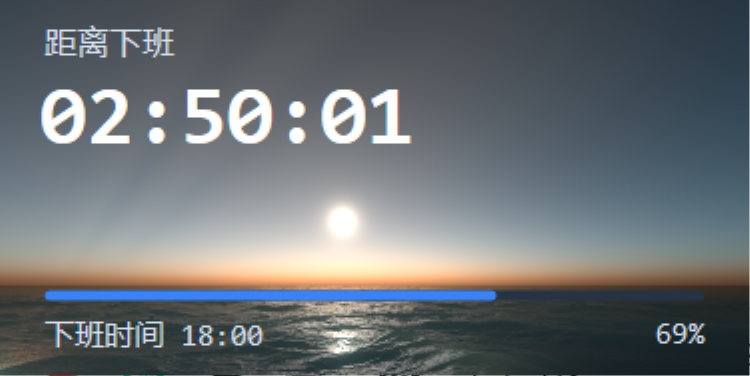
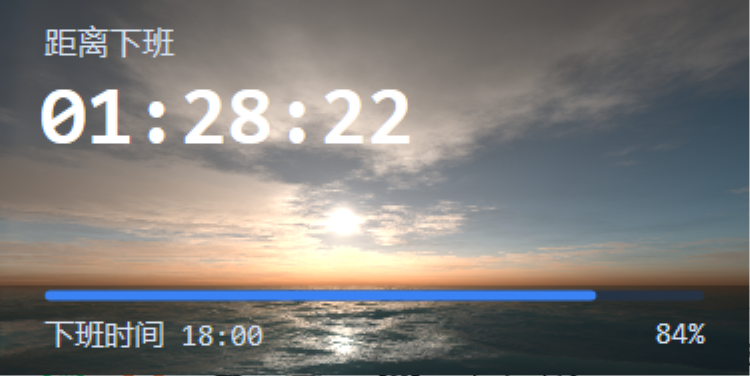
native: keep the shader's globals alive
FXC puts a file-scope 'float x = ...' into the implicit \ constant
buffer, and the app only binds b0, so those globals read as zero. cloudnear and
cloudfar were the fatal pair: clamp(1 - (dist - cloudfar) / (cloudfar -
cloudnear), 0, 10) evaluates to 0 when both are zero, which multiplies the whole
cloud density away. The same zeroing hit bR, m2 and the snow speeds.

The converter now prefixes the affected globals with static, so the initialiser
stays in the shader. The deck the source always drew is back in the picture.

Diagnosed by lzz15.

diff --git a/native/tools/convert-shader/src/main.rs b/native/tools/convert-shader/src/main.rs
@@ -225,6 +225,13 @@ fn rewrite(source: &str) -> String {
     // GLSL's two-argument `atan(y, x)` is HLSL's `atan2`.
     text = text.replace("atan(main.x,main.y)", "atan2(main.x, main.y)");
 
+    // A global `float x = ...` is not a GLSL global. FXC puts it in the
+    // implicit `$Globals` buffer, the app never binds that buffer, and the
+    // value reads back as 0. `cloudfar` being 0 makes the cloud distance
+    // factor clamp to 0, which erases the layer. `static` keeps the
+    // initializer and stays inside the invocation, which is what GLSL does.
+    text = static_globals(&text);
+
     // Float literals: GLSL writes `.5` and `2.`, HLSL wants a digit on both
     // sides of the point.
     // `regex` has no look-around, so both rules capture the neighbouring
@@ -281,6 +288,45 @@ fn main() {
         .unwrap_or(0);
     let mut out = std::io::stdout();
     let _ = writeln!(out, "wrote {} ({lines} lines)", output_path.display());
+}
+
+/// File-scope variables the GLSL initializes and then only reads. Matched by
+/// name, at column 0, because this shader also leaves some function locals
+/// unindented.
+const GLOBAL_NAMES: &[&str] = &[
+    "bM2",
+    "bR",
+    "Ds",
+    "Dsm",
+    "cloudyhigh",
+    "cloudnear",
+    "cloudfar",
+    "m2",
+    "SIZE_RATE",
+    "XSPEED",
+    "YSPEED",
+    "LAYERS",
+];
+
+fn static_globals(text: &str) -> String {
+    let mut out = String::with_capacity(text.len() + 64);
+    for line in text.split_inclusive('\n') {
+        let body = line.trim_end_matches(['\n', '\r']);
+        let is_global = !body.starts_with("//")
+            && !body.starts_with("static ")
+            && GLOBAL_NAMES.iter().any(|name| {
+                let Some((_, after_type)) = body.split_once(char::is_whitespace) else {
+                    return false;
+                };
+                let after_type = after_type.trim_start();
+                after_type.strip_prefix(name).is_some_and(|rest| rest.trim_start().starts_with('='))
+            });
+        if is_global {
+            out.push_str("static ");
+        }
+        out.push_str(line);
+    }
+    out
 }
 
 fn is_ident(byte: u8) -> bool {

diff --git a/native/README.md b/native/README.md
@@ -106,41 +106,27 @@ obvious next step.
 Reading a pixel back with a staging texture after each stage is what separates a
 drawing bug from a composition bug; it is worth keeping in the toolbox.
 
-## The clouds the export cannot draw
+## The clouds
 
-The published `Image` pass ships `#define SIMPLE_SUN 1`, and the sky is then
-painted by `getAtmosphericScattering()`, an analytic function with no cloud term
-at all. The volumetric cloud layer lives in `scatter()` → `densities()` → the
-`mie` density, and it only reaches the picture through the full-atmosphere branch.
+The published constants do draw the cloud deck. `fnoise2` on the noise texture
+sits around 0.5, `smoothstep(0.44, 0.64, …)` covers most of the slab, and
+`cloud()` then scales that by `5 * rainmulti` (40). A ray through the
+5000–8000 m layer comes back with a density of order 1.
 
-The branch is dead in this export: setting `SIMPLE_SUN 0` stops the shader from
-compiling, because `sun2` is declared inside `#if SIMPLE_SUN` and used outside it
-(source lines 2110, 2263, 2276). Declaring it unconditionally and forcing the
-branch makes the shader build, and probes then show the cloud layer working —
-`h` reaches 7000 m, `fnoise2` peaks at 0.73, `cloud()` at 1.0 — while the final
-composite still comes out flat.
+What erased them was the port. FXC treats a file-scope `float x = …` as a
+uniform in the implicit `$Globals` buffer. The app only binds `b0`, so
+`cloudnear` and `cloudfar` read as 0. The distance factor is
 
-With the switches as shipped, probes of the values `scatter()` hands to the
-compositor read `scat ≈ 0.9`, `themie ≈ 0.1–0.3`, `raleigh ≈ 0.09–0.19`, and a
-picture of `themie` is a smooth band at the horizon with no cloud structure in
-it: the analytic sky dominates and the clouds have nowhere to show. So the
-shader on the website is not the shader in the export, and the missing clouds are
-a property of the copy we have, not of the conversion.
+```
+clamp(1 - (dist - cloudfar) / (cloudfar - cloudnear), 0, 10)
+```
 
-What was tried afterwards, in case someone picks this up again:
-
-* The right shape of the `SIMPLE_SUN` fix is to declare `sun2` as zero in the
-  `#else` branch, not to compute the analytic sky unconditionally. With that in
-  place the full scattering path builds and looks richer — but still cloudless.
-* `ENABLE_DENSE_RAIN` is 1 and `tonemap` is 9, so the cloud densities are on the
-  path that runs.
-* Probes inside `densities()` show the rain of numbers is fine right up to the
-  end: the 5000–8000 m gate is entered for displayed pixels, `fnoise2` peaks at
-  0.73, `cloud()` at 1.0 — and yet `cld`, read at the line that folds it into
-  `mie`, is below 0.004 everywhere. Something between the gate and the fold
-  clears it; that is where to look next.
-* Raising the march from 8 steps to 128 changes the sky's brightness, not its
-  clouds, so the step size is not the cause on its own.
+and with both ends at 0 that clamps to 0, which multiplies the whole layer
+away. A literal `160e3` in the same shader is 160000; only the global was 0.
+The same thing zeroed `bR`, `m2` and the snow speeds. The converter now marks
+those globals `static`, which keeps the initializer inside the invocation.
+The analytic `SIMPLE_SUN` sky stays; the clouds show up through `themie` and
+through `scat` darkening that sky.
 
 ## Next
 
